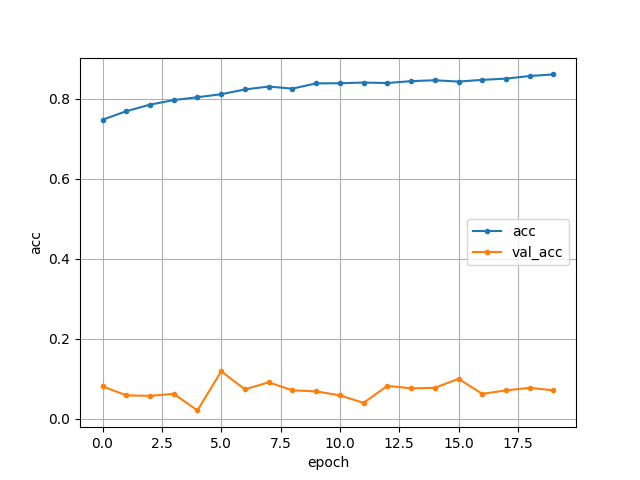
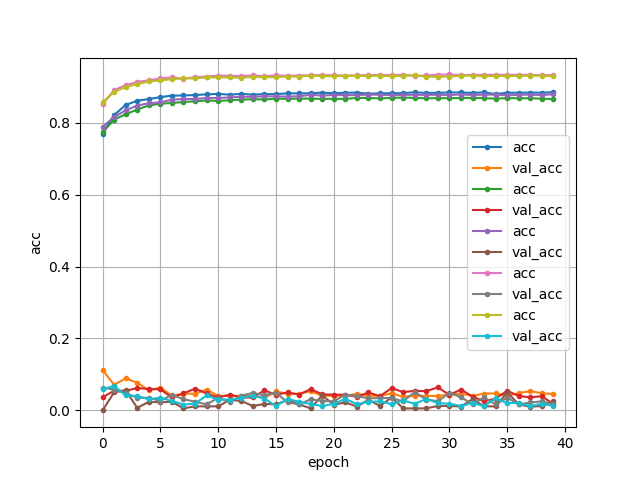
exp finished

diff --git a/galaxy_learning_torch.py b/galaxy_learning_torch.py
@@ -46,11 +46,7 @@ IMG_CHANNEL = 4
 IMG_SIZE = 50
 
 BATCH_SIZE = 10
-<<<<<<< HEAD
-NEPOCH = 10
-=======
 NEPOCH = 600
->>>>>>> over sampling implemented
 KFOLD = 5
 
 TEST_RATE = 0.2
@@ -352,92 +348,6 @@ if __name__ == '__main__':
 
         #false data augumentation
         tf_combinations = get_transform_combination2()
-<<<<<<< HEAD
-        for tf in tf_combinations:
-            tf1 = []
-            tf1.extend(tf)
-            tf1.append(transforms.CenterCrop(IMG_SIZE))
-            tf1.append(transforms.ToTensor())
-            false_aug = ImageDataset(input_file_path, DATA_ROOT_DIR, 0, transform=transforms.Compose(
-                tf1
-            ))
-            false_img_dataset = ConcatDataset([false_img_dataset, false_aug])
-
-        kfold = KFold(n_splits=KFOLD)
-
-        true_dataset_fold = kfold.split(true_img_dataset)
-        false_dataset_fold = kfold.split(false_img_dataset)
-        accuracy = []
-
-        #model training and test prediction with k fold cross validation
-        for fold_idx, ( (true_train_idx, true_test_idx), (false_train_idx, false_test_idx) ) in\
-                enumerate( zip(true_dataset_fold, false_dataset_fold) ):
-
-            true_train_data = [true_img_dataset[i] for i in true_train_idx]
-            true_test_data = [true_img_dataset[i] for i in true_test_idx]
-            false_train_data = [false_img_dataset[i] for i in false_train_idx]
-            false_test_data = [false_img_dataset[i] for i in false_test_idx]
-
-            #image data for prediction
-            pr_true_test_data = [true_img_dataset[i] for i in true_test_idx]
-            pr_false_test_data = [false_img_dataset[i] for i in false_test_idx]
-
-            train_data = ConcatDataset([true_train_data, false_train_data])
-            test_data = ConcatDataset([true_test_data, false_test_data])
-            pr_test_data = ConcatDataset([pr_true_test_data, pr_false_test_data])
-
-            train_loader = DataLoader(train_data, batch_size=BATCH_SIZE, shuffle=True)
-            test_loader = DataLoader(test_data, batch_size=100, shuffle=True)
-            pr_test_loader = DataLoader(pr_test_data, batch_size=100, shuffle=False)
-
-            print('N TRUE TRAIN: {}\nN TRUE TEST: {}'.format(len(true_train_data), len(true_test_data)))
-            print('N FALSE TRAIN: {}\nN FALSE TEST: {}'.format(len(false_train_data), len(false_test_data)))
-
-            model = Net()
-            if GPU:
-                model.cuda()
-            optimizer = optim.Adam(model.parameters(), lr=0.001)
-
-            test_acc = []
-            test_loss = []
-
-            for epoch in range(1, NEPOCH + 1):
-                train(epoch, model, optimizer, train_loader)
-                tloss, acc = test(model, test_loader)
-                test_loss.append(tloss)
-                test_acc.append(acc)
-
-            result_file = '{}_{}_{}'.format(split, fold_idx, RESULT_FILE)
-            result_file_path = os.path.join(RESULT_FILE_PATH, result_file)
-            acc, matrix = predict(model, pr_test_loader, result_file_path)
-            accuracy.append(acc.item())
-            for i in range(CLASS_NUM):
-                for j in range(CLASS_NUM):
-                    print(matrix[i][j], end=', ')
-                print('\n')
-            fig, (figL, figR) = plt.subplots(ncols=2, figsize=(10,4))
-            figL.plot(range(1, 1+NEPOCH), np.array(test_loss), marker='o', linewidth=2)
-            figL.set_title('test loss')
-            figL.set_xlabel('epoch')
-            figL.set_ylabel('loss')
-            figL.set_xlim(0, NEPOCH)
-            figL.grid(True)
-
-            figR.plot(np.array(range(NEPOCH)), np.array(test_acc), marker='o', linewidth=2)
-            figR.set_title('test accuracy')
-            figR.set_xlabel('epoch')
-            figR.set_ylabel('accuracy')
-            figR.set_xlim(0, NEPOCH)
-            figR.grid(True)
-
-            graph_name = '{}_{}_result.png'.format(split, fold_idx)
-
-            print('save result image:', graph_name)
-            fig.savefig(os.path.join('result', 'graph', graph_name))
-
-        print('mean', accuracy)
-        #fig.show()
-=======
         for i in range(4):
             for tf in tf_combinations:
                 tf1 = []
@@ -510,4 +420,3 @@ if __name__ == '__main__':
 
     print('mean', accuracy)
     #fig.show()
->>>>>>> over sampling implemented

diff --git a/galaxy_learning_keras.py b/galaxy_learning_keras.py
@@ -44,14 +44,14 @@ input_shape = (50, 50, IMG_CHANNEL)
 
 train_test_split_rate = 0.8
 #train_test_split_rate = 1
-nb_epoch = 20
+nb_epoch = 40
 batch_size = 10
 validation_split = 0.1
 #validation_split = 0.0
 
 
 BATCH_SIZE = 10
-NEPOCH = 100
+NEPOCH = 1
 KFOLD = 5
 
 IMG_IDX = 2
@@ -78,7 +78,7 @@ class DatasetLoader:
         for i in range(CLASS_NUM):
             if i == 1:
                 tmp_dataframe = data_frame[data_frame[LABEL_IDX]==i]
-                self.dataset_frame_list.append(tmp_dataframe.sample(n=5000))
+                self.dataset_frame_list.append(tmp_dataframe)
             else:
                 self.dataset_frame_list.append(data_frame[data_frame[LABEL_IDX]==i])
             self.dataset.append( self.create_dataset(i) )
@@ -304,6 +304,10 @@ if __name__ == "__main__":
 
         tmp_false_train_data = false_train_data
         false_train_data = []
+        print(len(true_train_data))
+        print(len(false_train_data))
+        naugumentation = int( len(true_train_data)/len(tmp_false_train_data) )
+        print(naugumentation)
         for idx, data in enumerate( tmp_false_train_data ):
             label = data[0]
             img = data[1]
@@ -312,7 +316,7 @@ if __name__ == "__main__":
             img_names = data[4]
             expanded_image = np.expand_dims(img, axis=0)
             generator = datagen.flow(expanded_image, batch_size=1, save_prefix='img', save_format='png')
-            for ite in range(19):
+            for ite in range(naugumentation):
                 batch = generator.next()
                 false_train_data.append( (label, batch[0], img_no, img_name, img_names) )
 
@@ -329,6 +333,11 @@ if __name__ == "__main__":
         train_label = true_train_label + false_train_label
         test_img = true_test_img + false_test_img
         test_label = true_test_label + false_test_label
+
+        print('true train', len(true_train_img))
+        print('true test', len(true_test_img))
+        print('false train', len(false_train_img))
+        print('false test', len(false_test_img))
 
         accracies = []
         galaxyClassifier = GalaxyClassifier()
